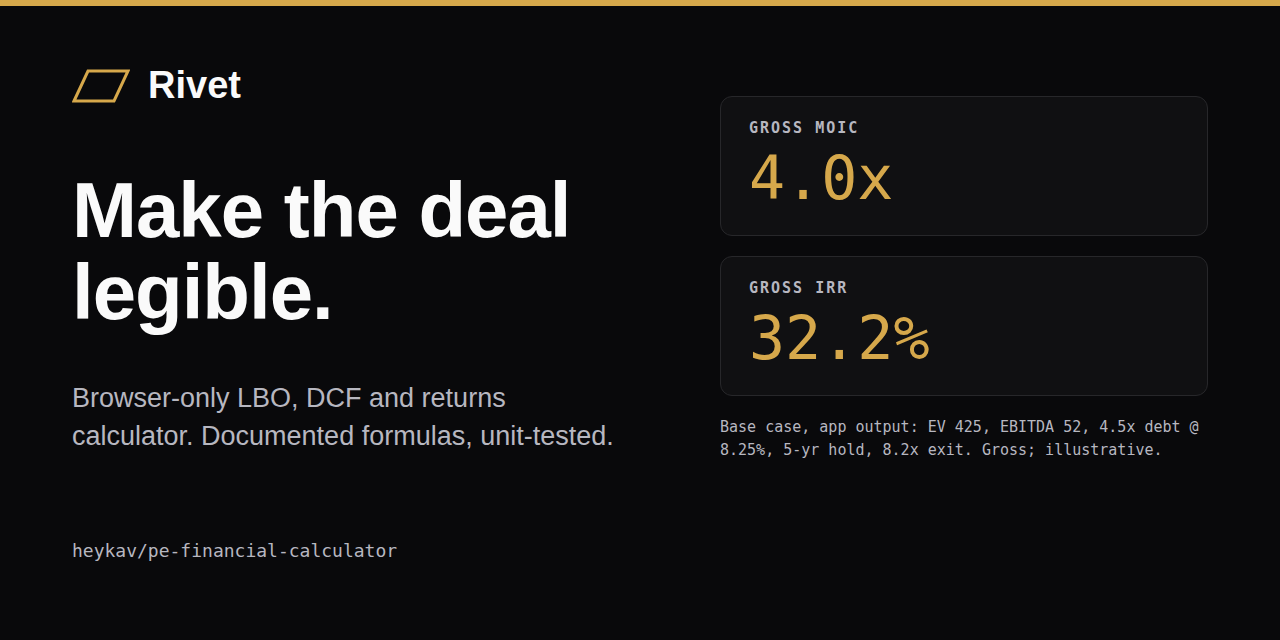
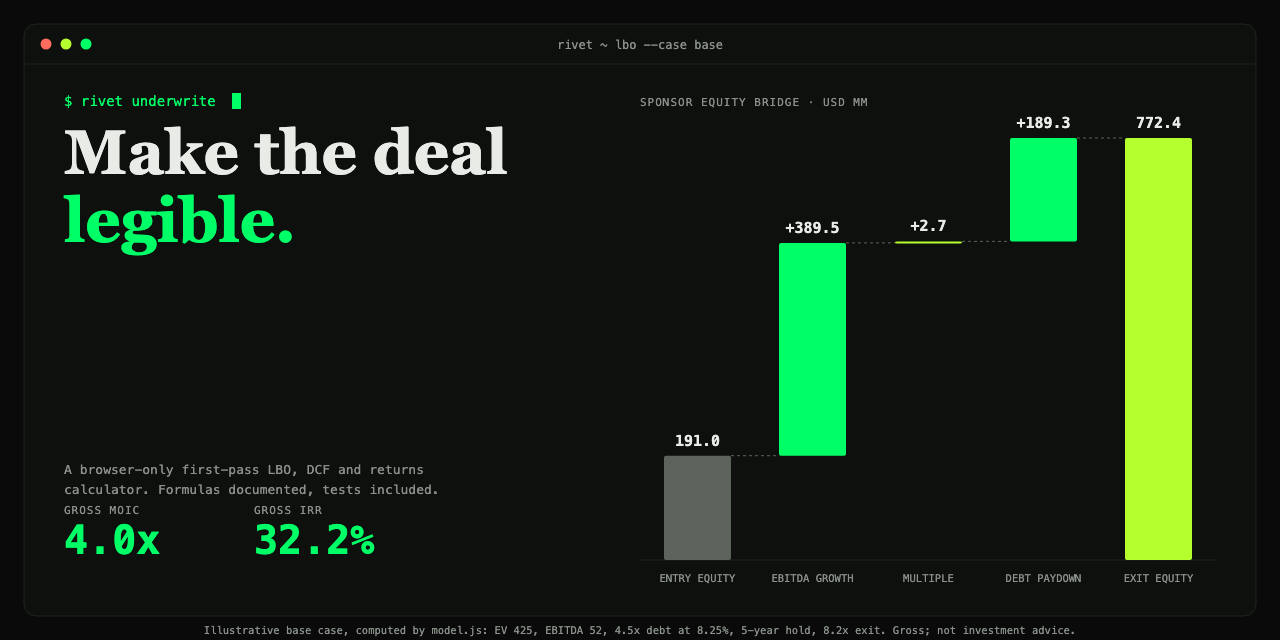
Animated terminal hero from model.js, real og:image and large Twitter card (#9)
Hero banners and social preview are now generated by scripts/make-hero.js from the model's base case. The live page gains og:image, image dimensions and alt text, and a summary_large_image card.

diff --git a/scripts/make-hero.js b/scripts/make-hero.js
@@ -1,0 +1,90 @@
+#!/usr/bin/env node
+// Regenerates docs/img/hero-{dark,light}.svg and docs/img/social-preview.svg.
+// Every number is computed by model.js at the documented base case; nothing is typed in by hand.
+// Run: node scripts/make-hero.js   (then see README "Regenerating artwork" for the PNG step)
+'use strict';
+const fs = require('fs');
+const path = require('path');
+const M = require('../model.js');
+
+const BASE = { ev: 425, ebitda: 52, debtMultiple: 4.5, interest: 0.0825, hold: 5, exitMultiple: 8.2, growth: [0.12, 0.11, 0.10, 0.09, 0.08], margin: [0.21, 0.22, 0.23, 0.24, 0.25], fcfConversion: 0.65, amortPct: 0.01, interestBasis: 'average' };
+const r = M.lbo(BASE);
+const a = r.attribution;
+const f1 = (x) => x.toFixed(1);
+
+const MONO = "'DejaVu Sans Mono',Menlo,Consolas,monospace";
+const SERIF = "Georgia,'DejaVu Serif',serif";
+
+const THEMES = {
+  dark: { bg: '#090A09', panel: '#0E100E', line: '#1F231F', text: '#E9ECE6', mute: '#8A918A', acc: '#00FF66', acc2: '#B6FF2E', base: '#5B635B', neg: '#FF6B5E' },
+  light: { bg: '#F4F5F2', panel: '#FFFFFF', line: '#D7DAD3', text: '#14170F', mute: '#5B635B', acc: '#0B8A3E', acc2: '#5E8A00', base: '#8A918A', neg: '#C23B2E' },
+};
+
+function build({ theme, W, H, animate }) {
+  const t = THEMES[theme];
+  const S = H / 360; // vertical scale relative to the 1280x360 hero
+  const winX = 24, winY = 24, winW = W - 48, winH = H - 48;
+  const chartX0 = Math.round(W * 0.5), chartX1 = W - 64;
+  const base = winY + winH - 56;
+  const chartH = winH - 170;
+  const k = chartH / (r.exitEquity * 1.0);
+  const steps = [
+    { label: 'ENTRY EQUITY', v: r.entryEquity, from: 0, to: r.entryEquity, col: t.base, txt: f1(r.entryEquity) },
+    { label: 'EBITDA GROWTH', v: a.ebitdaGrowth, from: r.entryEquity, to: r.entryEquity + a.ebitdaGrowth, col: t.acc, txt: '+' + f1(a.ebitdaGrowth) },
+    { label: 'MULTIPLE', v: a.multiple, from: r.entryEquity + a.ebitdaGrowth, to: r.entryEquity + a.ebitdaGrowth + a.multiple, col: t.acc2, txt: '+' + f1(a.multiple) },
+    { label: 'DEBT PAYDOWN', v: a.debtPaydown, from: r.entryEquity + a.ebitdaGrowth + a.multiple, to: r.exitEquity, col: t.acc, txt: '+' + f1(a.debtPaydown) },
+    { label: 'EXIT EQUITY', v: r.exitEquity, from: 0, to: r.exitEquity, col: t.acc2, txt: f1(r.exitEquity) },
+  ];
+  const n = steps.length, slot = (chartX1 - chartX0) / n, bw = Math.round(slot * 0.58);
+  let css = `text{font-family:${MONO}}.serif{font-family:${SERIF}}`;
+  let bars = '', labels = '', conn = '';
+  steps.forEach((s, i) => {
+    const x = Math.round(chartX0 + i * slot + (slot - bw) / 2);
+    const yTop = base - s.to * k, h = Math.max(2, (s.to - s.from) * k);
+    const cls = `b${i}`;
+    // Bars grow from their own base edge; the resting (unanimated) state is the finished chart.
+    bars += `<rect class="${cls}" x="${x}" y="${yTop.toFixed(1)}" width="${bw}" height="${h.toFixed(1)}" rx="2" fill="${s.col}"/>`;
+    labels += `<text x="${x + bw / 2}" y="${(yTop - 10).toFixed(1)}" font-size="${13 + (S > 1 ? 2 : 0)}" font-weight="700" fill="${t.text}" text-anchor="middle">${s.txt}</text>`;
+    labels += `<text x="${x + bw / 2}" y="${base + 22}" font-size="10.5" fill="${t.mute}" text-anchor="middle">${s.label}</text>`;
+    if (i < n - 1) {
+      const yc = base - s.to * k;
+      conn += `<line x1="${x + bw}" y1="${yc.toFixed(1)}" x2="${Math.round(chartX0 + (i + 1) * slot + (slot - bw) / 2)}" y2="${yc.toFixed(1)}" stroke="${t.base}" stroke-width="1" stroke-dasharray="3 3"/>`;
+    }
+    if (animate) {
+      const delay = i * 0.07; // fraction of the loop
+      const d0 = 80 + delay * 10, d1 = d0 + 3, d2 = Math.min(99.5, d1 + 9);
+      css += `.${cls}{transform-box:fill-box;transform-origin:50% 100%;animation:k${i} 10s ease-in-out infinite}@keyframes k${i}{0%,${d0.toFixed(1)}%{transform:scaleY(1);opacity:1}${d1.toFixed(1)}%{transform:scaleY(0);opacity:.2}${d2.toFixed(1)}%,100%{transform:scaleY(1);opacity:1}}`;
+    }
+  });
+  if (animate) {
+    css += `.cur{animation:blink 1.2s steps(1) infinite}@keyframes blink{50%{opacity:0}}@media (prefers-reduced-motion:reduce){*{animation:none!important}}`;
+  }
+  const lx = 64, big = H > 500 ? 62 : 46;
+  const ly = winY + (H > 500 ? 150 : 140);
+  const kpiY = base - 6;
+  const kpi = (x, label, val) => `<text x="${x}" y="${kpiY - 40}" font-size="11" letter-spacing="1" fill="${t.mute}">${label}</text><text x="${x}" y="${kpiY}" font-size="${S > 1 ? 40 : 34}" font-weight="700" fill="${t.acc}">${val}</text>`;
+  return `<svg xmlns="http://www.w3.org/2000/svg" viewBox="0 0 ${W} ${H}" width="${W}" height="${H}" role="img" aria-labelledby="t d"><title id="t">Rivet: make the deal legible</title><desc id="d">Illustrative terminal-style banner. A returns waterfall computed by the app's model at its documented base case (USD mm): entry equity ${f1(r.entryEquity)}, plus ${f1(a.ebitdaGrowth)} from EBITDA growth, plus ${f1(a.multiple)} from multiple change, plus ${f1(a.debtPaydown)} from debt paydown, equals exit equity ${f1(r.exitEquity)}. Gross MOIC ${r.moic.toFixed(1)}x, gross IRR ${(r.irr * 100).toFixed(1)}%. Illustrative, not investment advice.</desc><style>${css}</style>
+<rect width="${W}" height="${H}" fill="${t.bg}"/>
+<rect x="${winX}" y="${winY}" width="${winW}" height="${winH}" rx="12" fill="${t.panel}" stroke="${t.line}"/>
+<path d="M${winX} ${winY + 40}H${winX + winW}" stroke="${t.line}"/>
+<circle cx="${winX + 22}" cy="${winY + 20}" r="5.5" fill="${t.neg}"/><circle cx="${winX + 42}" cy="${winY + 20}" r="5.5" fill="${t.acc2}"/><circle cx="${winX + 62}" cy="${winY + 20}" r="5.5" fill="${t.acc}"/>
+<text x="${W / 2}" y="${winY + 25}" font-size="12" fill="${t.mute}" text-anchor="middle">rivet ~ lbo --case base</text>
+<text x="${lx}" y="${winY + 82}" font-size="14" fill="${t.acc}">$ rivet underwrite</text><rect class="cur" x="${lx + 168}" y="${winY + 69}" width="9" height="16" fill="${t.acc}"/>
+<text class="serif" x="${lx}" y="${ly }" font-size="${big}" font-weight="700" fill="${t.text}" style="font-family:${SERIF}">Make the deal</text>
+<text class="serif" x="${lx}" y="${ly + big * 1.1 }" font-size="${big}" font-weight="700" fill="${t.acc}" style="font-family:${SERIF}">legible.</text>
+<text x="${lx}" y="${base - 86}" font-size="13" fill="${t.mute}">A browser-only first-pass LBO, DCF and returns</text>
+<text x="${lx}" y="${base - 66}" font-size="13" fill="${t.mute}">calculator. Formulas documented, tests included.</text>
+${kpi(lx, 'GROSS MOIC', r.moic.toFixed(1) + 'x')}${kpi(lx + 190, 'GROSS IRR', (r.irr * 100).toFixed(1) + '%')}
+<text x="${chartX0}" y="${winY + 82}" font-size="11" letter-spacing="1" fill="${t.mute}">SPONSOR EQUITY BRIDGE · USD MM</text>
+<line x1="${chartX0}" y1="${base}" x2="${chartX1}" y2="${base}" stroke="${t.line}"/>
+${conn}${bars}${labels}
+<text x="${W / 2}" y="${H - 6}" font-size="10.5" fill="${t.mute}" text-anchor="middle">Illustrative base case, computed by model.js: EV 425, EBITDA 52, 4.5x debt at 8.25%, 5-year hold, 8.2x exit. Gross; not investment advice.</text>
+</svg>
+`;
+}
+
+const out = path.join(__dirname, '..', 'docs', 'img');
+fs.writeFileSync(path.join(out, 'hero-dark.svg'), build({ theme: 'dark', W: 1280, H: 460, animate: true }));
+fs.writeFileSync(path.join(out, 'hero-light.svg'), build({ theme: 'light', W: 1280, H: 460, animate: true }));
+fs.writeFileSync(path.join(out, 'social-preview.svg'), build({ theme: 'dark', W: 1280, H: 640, animate: false }));
+console.log('moic', r.moic, 'irr', r.irr, 'exit', r.exitEquity);

diff --git a/index.html b/index.html
@@ -26,7 +26,12 @@
   <meta property="og:title" content="Rivet | Private Equity & Investment Banking Calculator" />
   <meta property="og:description" content="A browser-based finance calculator for LBO underwriting, sponsor returns, DCF valuation, deal comps, MOIC, IRR, and sensitivity analysis." />
   <meta property="og:site_name" content="Rivet Private Markets OS" />
-  <meta name="twitter:card" content="summary" />
+  <meta property="og:image" content="https://heykav.github.io/pe-financial-calculator/docs/img/social-preview.png" />
+  <meta property="og:image:width" content="1280" />
+  <meta property="og:image:height" content="640" />
+  <meta property="og:image:alt" content="Rivet: a returns waterfall from the app's own model at its documented base case, entry equity 191.0 to exit equity 772.4 (USD mm), 4.0x gross MOIC, 32.2% gross IRR. Illustrative." />
+  <meta name="twitter:card" content="summary_large_image" />
+  <meta name="twitter:image" content="https://heykav.github.io/pe-financial-calculator/docs/img/social-preview.png" />
   <meta name="twitter:title" content="Rivet | Private Equity & Investment Banking Calculator" />
   <meta name="twitter:description" content="Underwrite hypothetical deals with a clear browser-based LBO, returns, DCF, and sensitivity calculator." />
   <title>Rivet | Private Equity &amp; Investment Banking Calculator</title>

diff --git a/README.md b/README.md
@@ -3,7 +3,7 @@
 <picture>
   <source media="(prefers-color-scheme: dark)" srcset="docs/img/hero-dark.svg">
   <source media="(prefers-color-scheme: light)" srcset="docs/img/hero-light.svg">
-  <img src="docs/img/hero-dark.svg" alt="Rivet banner: Make the deal legible. Base-case app output of 4.0x gross MOIC, 32.2% gross IRR, and sponsor equity growing from $191.0mm to $772.4mm." width="100%">
+  <img src="docs/img/hero-dark.svg" alt="Rivet banner in a terminal window: Make the deal legible. An equity bridge computed by the app's model at the base case: $191.0mm entry equity, plus $389.5mm EBITDA growth, plus $2.7mm multiple change, plus $189.3mm debt paydown, equals $772.4mm exit equity. 4.0x gross MOIC, 32.2% gross IRR. Illustrative." width="100%">
 </picture>
 
 **A strictly browser-based underwriting web app that turns deal assumptions into an explainable investment view.**
@@ -58,6 +58,10 @@ Values in both diagrams are output of `model.js` at the base case above (USD mm)
   <source media="(prefers-color-scheme: light)" srcset="docs/img/diagram-returns-attribution-light.svg">
   <img src="docs/img/diagram-returns-attribution-dark.svg" alt="Diagram: exit equity minus entry equity equals EBITDA growth at the entry multiple, plus multiple change on exit EBITDA, plus net-debt reduction, minus fees. At the base case: 389.5 plus 2.7 plus 189.3 equals 581.4, taking equity from 191.0 to 772.4." width="100%">
 </picture>
+
+### Regenerating the artwork
+
+The hero banners and the social preview are generated by `node scripts/make-hero.js`, which calls `model.js` at the base case, so the bridge numbers always match the app. The banners animate (the bars re-grow every ten seconds; the resting state is the finished chart, and `prefers-reduced-motion` turns the motion off). The 1280x640 `social-preview.png` is a render of `docs/img/social-preview.svg`; it is also the `og:image` the live page serves.
 
 ## Table of contents
 
